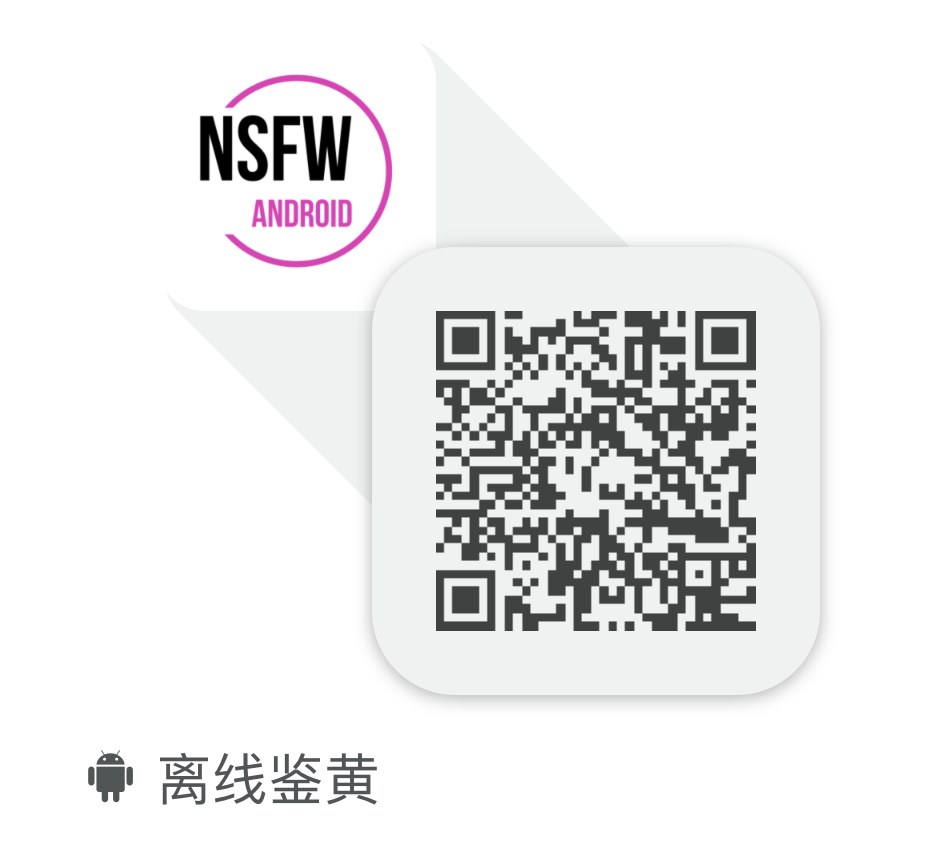
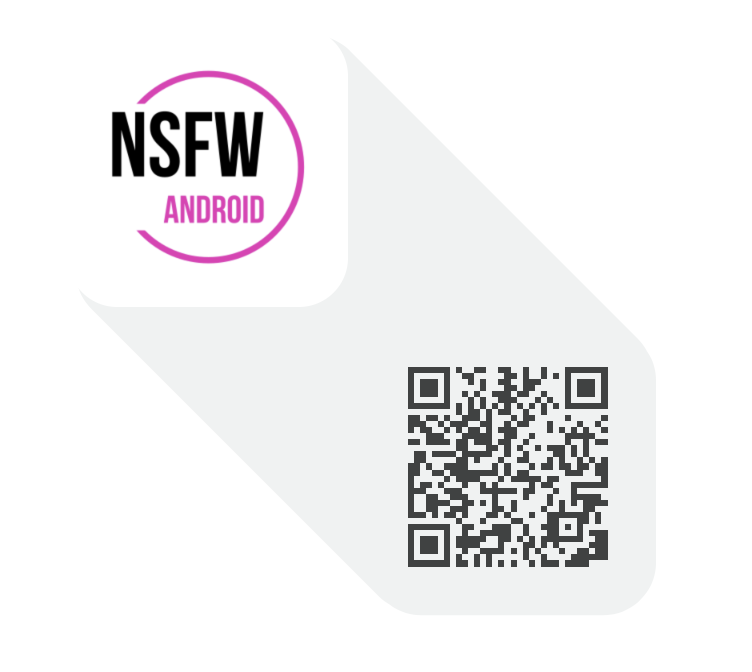
2 UPDATE README.MD

diff --git a/README.md b/README.md
@@ -93,7 +93,7 @@ __无论哪种方式依赖项目，都需要添加如下代码__
         nsfwBean.sfw   ... 非涉黄数值 数值越大约安全
         nsfwBean.nsfw   ... 涉黄数值  数值越大约危险
 ```
-### 安卓手机直接[点我安装](http://d.7short.com/1rj9)
+### 安卓手机直接[点我安装](http://d.6short.com/mwfv)
 
 ### 扫码下载
 
